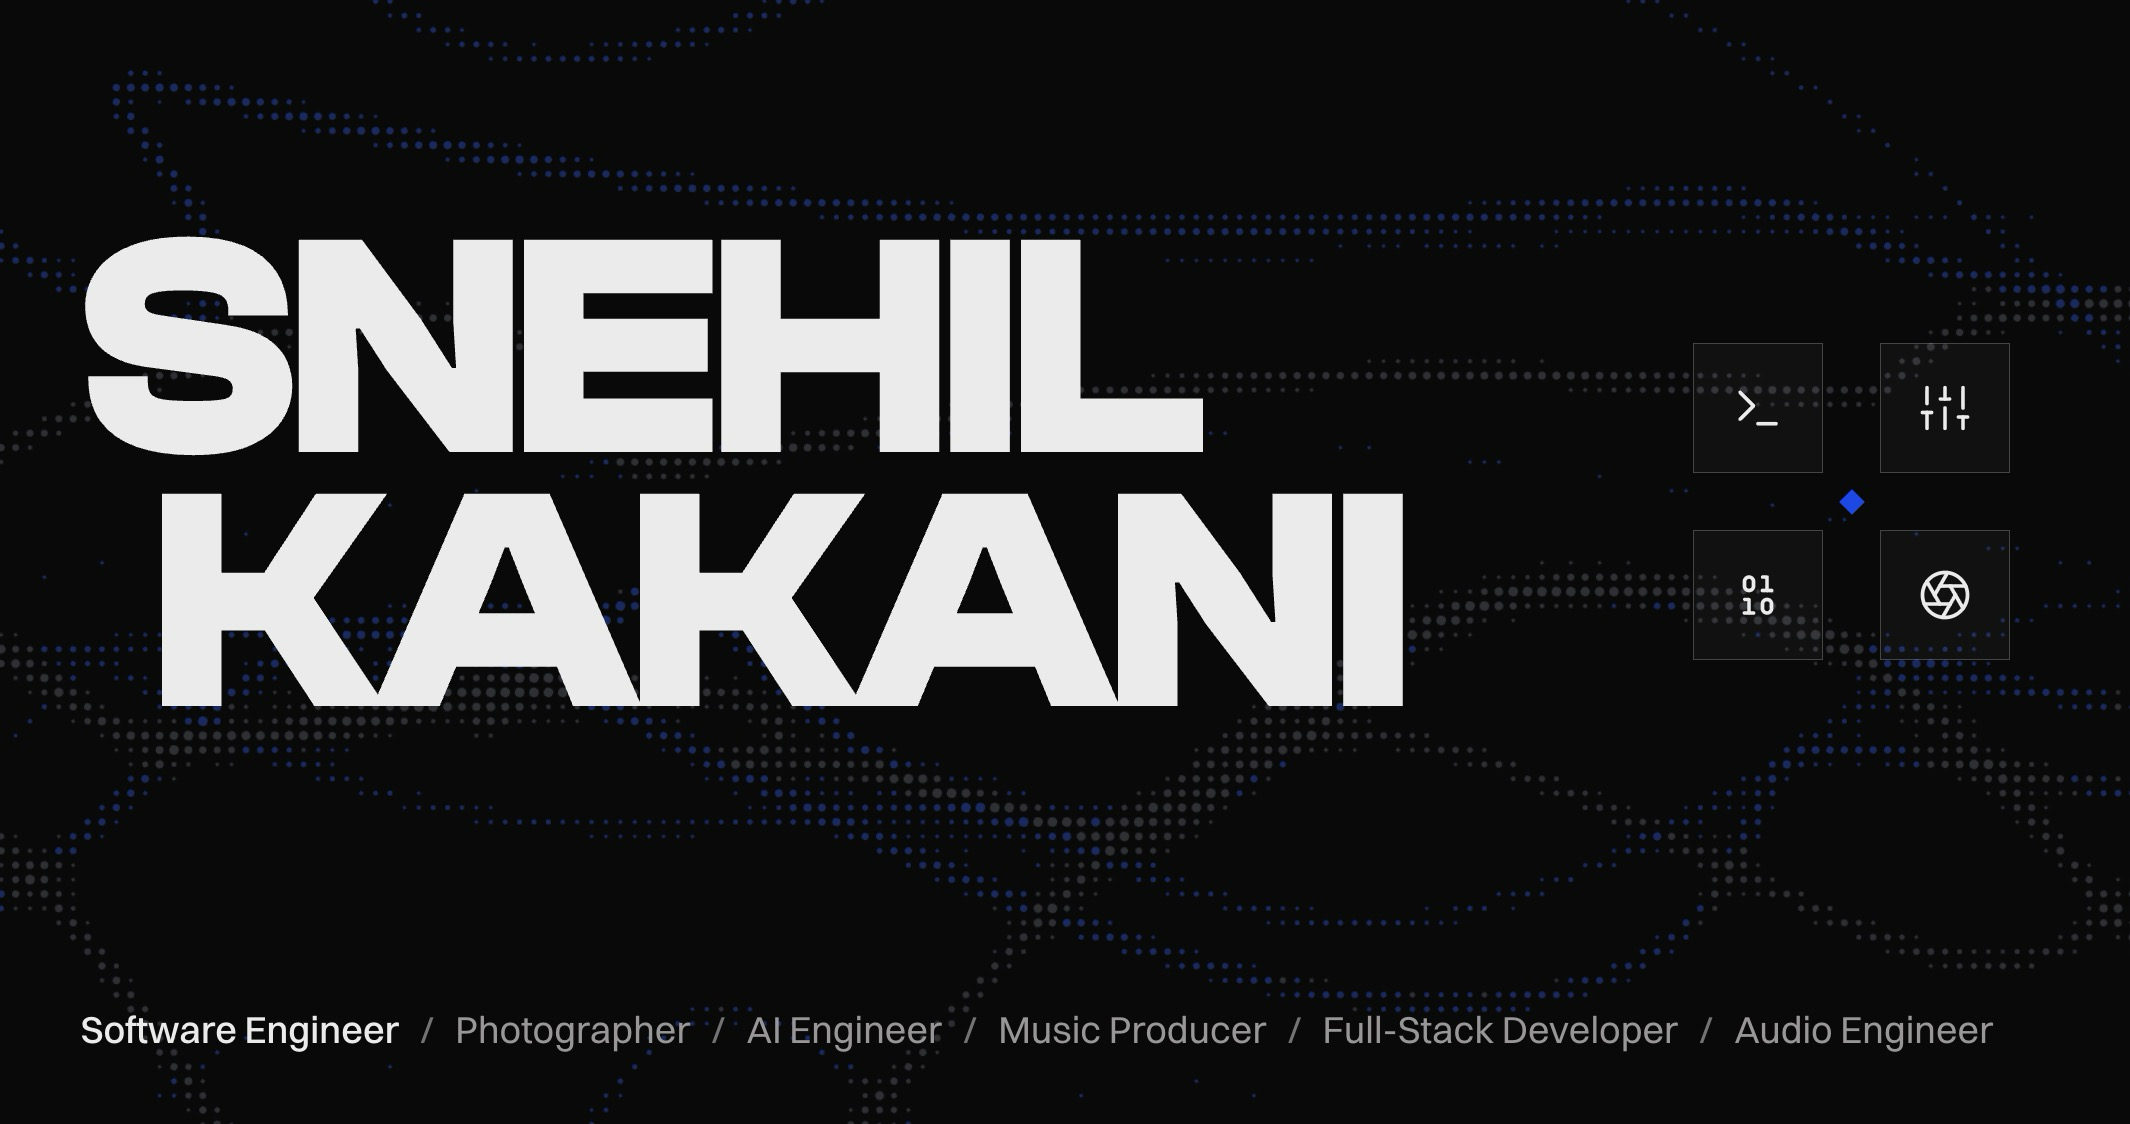
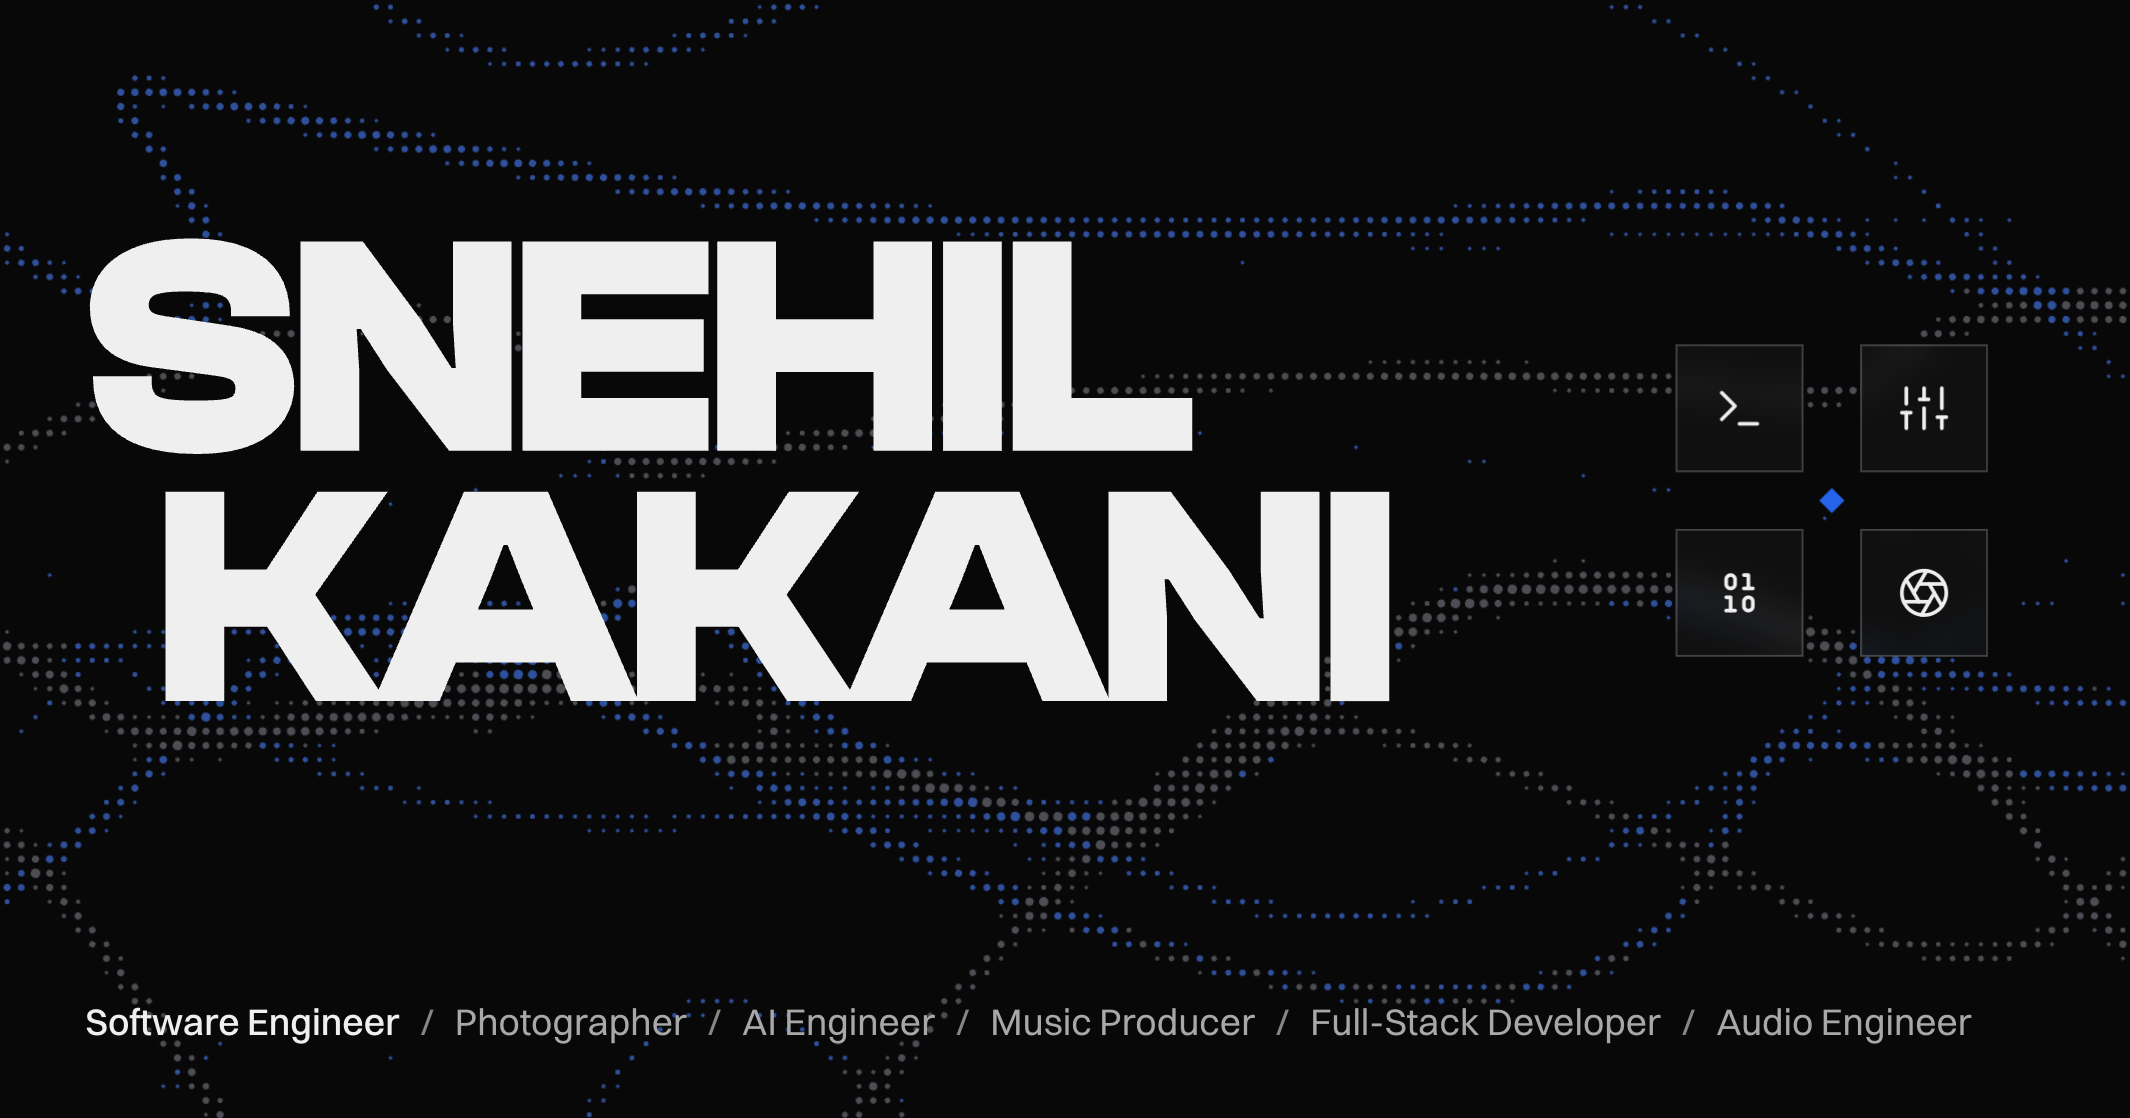
fix: adjust intensity values in WaveField and related components; update styles in LoaderMatrix

diff --git a/app/lib/components/shared/WaveField.tsx b/app/lib/components/shared/WaveField.tsx
@@ -59,8 +59,10 @@ const CORE_DOT_GAIN = 2.5;
 const DITHER_DEPTH = 0.44;
 const NOISE_FLOOR = 30;
 const BLOOM_PROFILE = [1, 0.62, 0.3];
-const DOT_ACCENT_FILL = "rgba(68, 120, 238, 0.38)";
-const DOT_NEUTRAL_FILL = "rgba(200, 205, 220, 0.21)";
+const DOT_ACCENT_RGB = "68, 120, 238";
+const DOT_ACCENT_ALPHA = 0.38;
+const DOT_NEUTRAL_RGB = "200, 205, 220";
+const DOT_NEUTRAL_ALPHA = 0.21;
 
 const DEFOCUS_BY_DEPTH = 1.7;
 
@@ -441,7 +443,10 @@ export default function WaveField({
       const gh = hcanvas.height;
       const cells = hctx.getImageData(0, 0, gw, gh).data;
       for (let bucket = 0; bucket < 2; bucket++) {
-        ctx.fillStyle = bucket === 0 ? DOT_ACCENT_FILL : DOT_NEUTRAL_FILL;
+        ctx.fillStyle =
+          bucket === 0
+            ? `rgba(${DOT_ACCENT_RGB}, ${Math.min(1, DOT_ACCENT_ALPHA * intensity)})`
+            : `rgba(${DOT_NEUTRAL_RGB}, ${Math.min(1, DOT_NEUTRAL_ALPHA * intensity)})`;
         ctx.beginPath();
         for (let gy = 0; gy < gh; gy++) {
           for (let gx = 0; gx < gw; gx++) {

diff --git a/app/lib/components/loader/LoaderMatrix.tsx b/app/lib/components/loader/LoaderMatrix.tsx
@@ -16,7 +16,7 @@ export default function LoaderMatrix() {
           return (
             <div
               key={`${rowIndex}-${colIndex}`}
-              className="flex items-center justify-center border border-white/[0.22] bg-white/[0.03] text-fg"
+              className="flex items-center justify-center border border-white/[0.22] bg-white/[0.03] text-fg backdrop-blur-sm"
             >
               <Icon size={30} strokeWidth={1.65} aria-hidden="true" />
             </div>

diff --git a/app/lib/components/meta/LinkedInBannerCanvas.tsx b/app/lib/components/meta/LinkedInBannerCanvas.tsx
@@ -15,7 +15,7 @@ export default function LinkedInBannerCanvas() {
     >
       <WaveField
         frozenAtMs={FROZEN_MS}
-        intensity={1.8}
+        intensity={1.7}
         className="pointer-events-none absolute inset-0 z-0"
       />
 

diff --git a/app/lib/components/meta/MetaImageCanvas.tsx b/app/lib/components/meta/MetaImageCanvas.tsx
@@ -15,7 +15,7 @@ export default function MetaImageCanvas() {
     >
       <WaveField
         frozenAtMs={FROZEN_MS}
-        intensity={1.8}
+        intensity={1.7}
         className="pointer-events-none absolute inset-0 z-0"
       />
 

diff --git a/AGENTS.md b/AGENTS.md
@@ -756,7 +756,7 @@ none; }` off that attribute — `display`, not `opacity`, because the layer
   internal render surfaces, `noindex, nofollow`, and additionally
   `Disallow`ed in `robots.ts`.
   The two pages render the same halftone `WaveField` as the site, with
-  `intensity={1.8}` (width and alpha multiplier, default 1) so the dots hold up
+  `intensity={1.7}` (width and alpha multiplier, default 1) so the dots hold up
   as a still image. The old solid-stroke `poster` variant was removed: it
   rendered the pre-halftone look. They keep the static icon grid, not the
   current loader stage.
